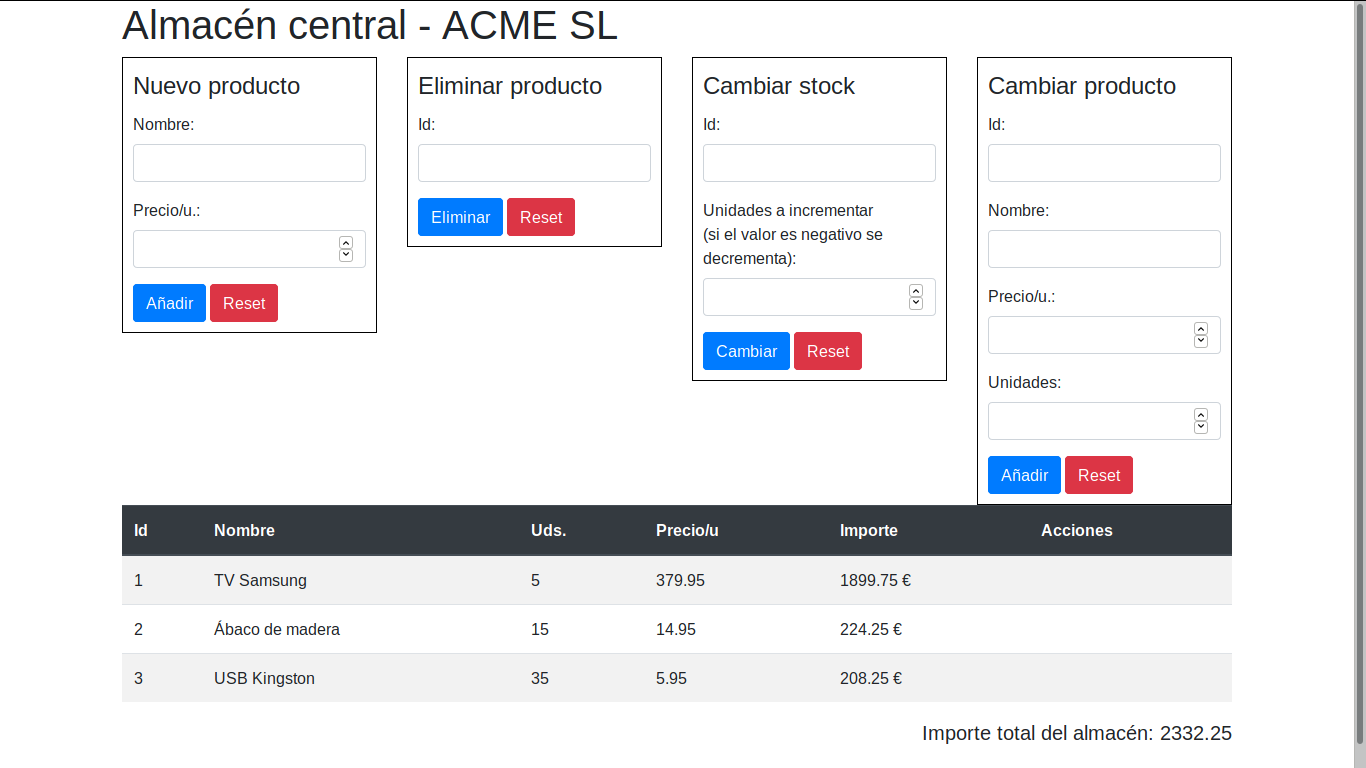
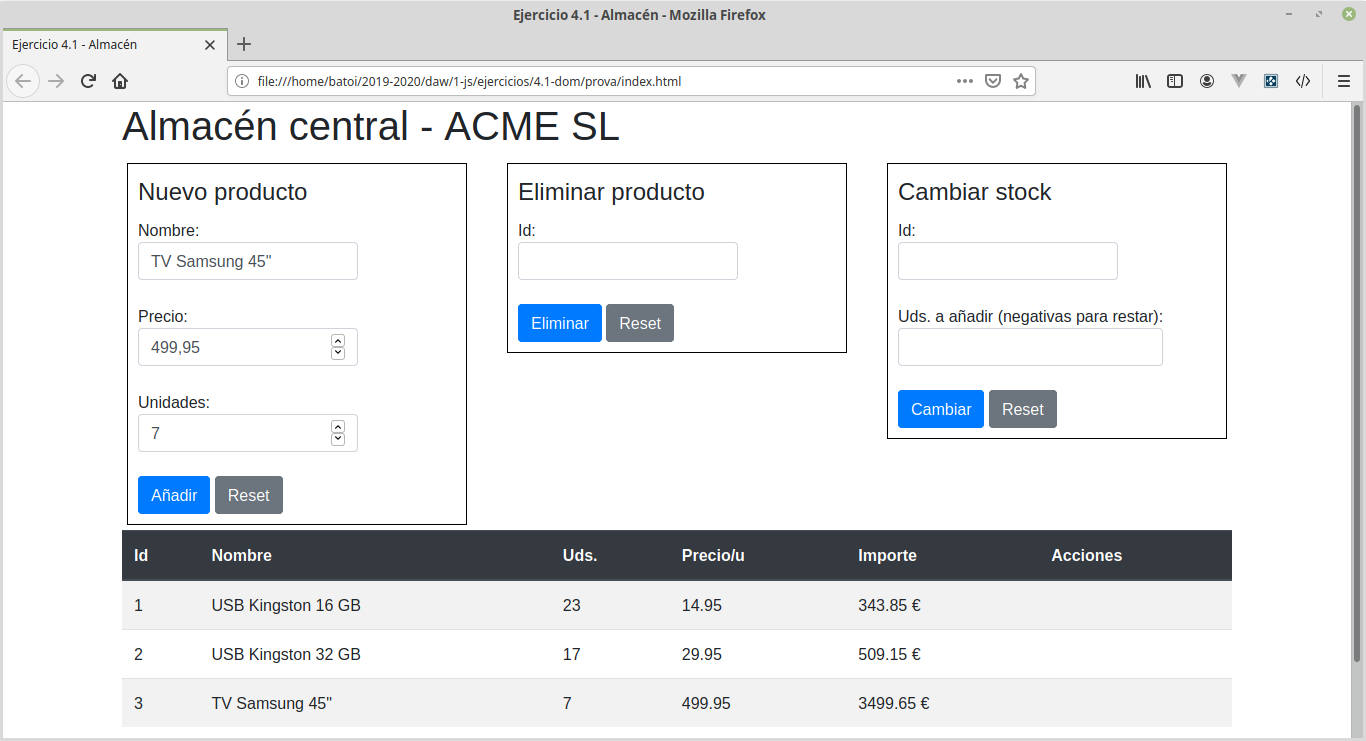
[MOD] JS-ejer 4-1

diff --git a/daw/dwc/01-js/ejercicios/4-1-tablaproductos.md b/daw/dwc/01-js/ejercicios/4-1-tablaproductos.md
@@ -1,18 +1,18 @@
 # Bloc 1: Javascript. Práctica 4.1 - DOM
-Siguiendo con la práctica de POO vamos a mostrar en una tabla los productos de nuestro almacén. Cada fila corresponderá a un producto y se mostrará su código, nombre, unidades, precio por unidad e importe. En el fichero index.html tenemos una tabla vacía con id almacen donde pintaremos ese almacén. Dicha tabla usa **_bootstrap_** para mejorar la presentación. Debajo de la misma mostraremos el importe total del almacén.
+Siguiendo con la práctica de 'Productos de un almacén' vamos a crear una página donde mostrar en una tabla los productos de nuestro almacén. Cada fila corresponderá a un producto y se mostrará su id, nombre, unidades, precio por unidad e importe. En el fichero index.html tenéis una tabla vacía con id _almacen_ donde pintaremos ese almacén. Dicha tabla usa **_bootstrap_** para mejorar la presentación. Debajo de la misma mostraremos el importe total del almacén.
 
-Ya tenemos creadas las clases por lo que la lógica de negocio de nuestra aplicación la tenemos ya hecha. Ahora nos falta crear funciones con las que interactuará el usuario y que se encargarán de modificar los datos usando las clases ya creadas y reflejar los cambios hechos en la página para que los vea el usuario. Necesitaremos funciones para:
-* Añadir productos al almacén: deberemos pasarle el nombre del nuevo producto y su precio por unidad
-* Eliminar productos del almacén: debemos pasarle la id del producto a eliminar. Deberá pedir confirmación (mostraremos al usuario la id del producto a eliminar y su nombre) y, si el producto tiene unidades, volverá a pedirla indicando las unidades que aún tenemos del mismo y que desaparecerán
-* Cambiar stock: recibe una id de producto y el nº de unidades (positivo o negativo) a modificar
+Ya tenemos creadas las clases por lo que la lógica de negocio de nuestra aplicación (el modelo) la tenemos ya hecha. Ahora nos falta crear funciones con las que interactuará el usuario y que se encargarán de modificar los datos usando las clases ya creadas y reflejar los cambios hechos en la página para que los vea el usuario. Necesitaremos funciones para:
+* Añadir productos al almacén: deberemos pasarle el nombre del nuevo producto, su precio por unidad y, opcionalmente, sus unidades (si no recibe unidades estas serán 0)
+* Eliminar productos del almacén: debemos pasarle la id del producto a eliminar. Deberá pedir confirmación (mostraremos al usuario la id del producto a eliminar y su nombre). Si el producto tiene unidades en stock, volverá a pedir una confirmación indicando las unidades que aún tenemos del mismo y diciendo que desaparecerán.
+* Cambiar stock: recibe una id de producto y el nº de unidades (positivo o negativo) a modificar y sumará esta cantidad al stock exitente del producto
 * Cambiar producto: recibe un objeto con la id del producto a modificar y las propiedades que deseamos modificar (las no incluidas permanecerán inalteradas)
 
-Para introducir estos datos crearemos unos formularios vacíos sobre la tabla que deberemos completar (sólo tenemos el título). Para mejorar su presentación usaremos también _bootstrap_ por lo que cada input del formulario tendrá la siguiente estructura básica (añadiremos estas 4 líneas de código al _index.html_ para cada input que queramos poner:
+Para introducir estos datos tenemos unos formularios sobre la tabla que deberemos completar (sólo tienen el título). Para mejorar su presentación usaremos también _bootstrap_ por lo que cada input del formulario tendrá la siguiente estructura básica (añadiremos estas 4 líneas de código al _index.html_ para cada input que queramos poner:
 ```html
 <div class="form-group">
-  <label for="new-name">
+  <label for="prod-name">
     <span>Nombre: </span>
-    <input type="text" class="form-control" id="new-name">
+    <input type="text" class="form-control" id="prod-name">
   </label>
 </div>
 ```
@@ -22,20 +22,83 @@ Respecto a los botones de cada formulario tendrán el siguiente aspecto:
 <button type="submit" class="btn btn-default btn-primary">Añadir</button>
 <button type="reset" class="btn btn-secondary">Reset</button>
 ```
+
 ![Almacén](./img/ejer4-1.png)
 
-ATENCIÓN: En la etiqueta de cada formulario hemos puesto un atributo, _onsubmit_, que hará que se ejecute la función indicada en dicho atributo cuando se envíe el formulario. Por tanto deberemos crear esa función en nuestro código, quien se encargará de obtener los datos del formulario, validarlos y llamar a las funciones correspondientes.
+ATENCIÓN: En la etiqueta de cada formulario hemos puesto un atributo, _onsubmit_, que hará que se ejecute automáticamente la función indicada en dicho atributo cuando se envíe el formulario. Por tanto deberemos crear esa función en nuestro código y hacer que se encargue de obtener los datos del formulario, validarlos y llamar a las funciones correspondientes (añadir, eliminar, ...).
 
-Podéis modificar lo que necesitéis del _index.html_. De hecho como mínimo tenemos que añadir los inputs de los formularios existentes.
+Podéis modificar lo que necesitéis del _index.html_. De hecho como mínimo tenemos que añadir los inputs de los formularios existentes y seguramente convendrá ponerle _id_ a algunos elementos.
 
 ## MVC
 Es importante no mezclar la lógica del negocio (el modelo) con la presentación (la vista). Las clases que tenemos creadas deben ocuparse de los datos pero NO de cómo los vamos a presentar en la pantalla. De eso se ocuparan otras funciones de manera que si decidimos que la información se vea de otra forma eso no debe afectar al modelo. 
 
-Lo ideal sería usar el patrón MVC (con o sin clases para el controlador y la vista, como prefiráis). Una posible implementación sería:
-- controlador, que contiene 2 tipos de funciones:
-  - las que se ejecutan cuando se envía cada formulario. Dichas funciones se ocupan de validar los valores de los formularios y si todo es correcto llamar a la función correspondiente del controlador
-  - funciones del controlador(las descritas al principio) que deberán:
-    - llamar al modelo (la clase Store) para modificar los datos en respuesta a la acción del cliente
-    - si todo ha ido bien llamar a la vista para que modifique la tabla en función de los cambios hechos (NO queremos que la vuelva a pintar toda, sólo que cambie el producto modificado)
-    - si ha habido algún problema que llame a la vista para mostrar el error al usuario
-- vista: tendrá funciones para pintar los datos iniciales (la tabla vacía) y pintar los nuevos productos y los productos modificados
+Por ello vamos a usar el patrón MVC (con o sin clases para el controlador y la vista, como prefiráis). La estructura que deberemos crear es:
+- controlador, cuyas funciones tienen que:
+  - validar los datos que se le pasan
+  - si son correctos, llamar al modelo (la clase Store) para modificar los datos en respuesta a la acción del cliente
+  - si todo ha ido bien llamar a la vista para que modifique la tabla de productos en función de los cambios hechos
+  - si ha habido algún problema se debe llamar a la vista para mostrar el error al usuario
+- vista: tendrá funciones para pintar los datos iniciales (la tabla vacía) y pintar los nuevos productos y los productos modificados. También habrá una función que muestre un mensaje al usuario, para evitar usar alerts.
+
+Además en el fichero principal de la aplicación deberemos crear funciones manejadoras de eventos que se ejecutarán automáticamente cuando se envía cada formulario. Dichas funciones se ocupan de enviar los datos del formulario a la función correspondiente del controlador. Recibirán como parámetro un objeto _event_ con información sobre el evento producido. La primera línea de cada función será `event.preventDefault()` para que no se recargue la página al enviar el formulario (en el tema de _Eventos_ veremos el por qué de todo esto). Tenéis hecho en el fichero **index.js** un ejemplo para el formulario _form-prod_. Debéis completar esa función y hacer otras para los otros 2 formularios.
+
+### Controller
+La clase controller tendrá como propiedades un almacén donde guardar los datos y una instancia de la clase _View_ a la que llamar para renderizarlos. Sus métodos serán:
+- **addProductToStore**: recibe de la función manejadora del formulario _form-prod_ un objeto con los datos del producto a añadir (_name_, _price_ y _units_) y, tras comprobar que son correctos, hace que se añada al almacén y se muestre en la tabla
+- **deleteProductFromStore**: recibe de la función manejadora del formulario _form-del-prod_ la id del producto a eliminar y hace que se borre del almacén y de la tabla
+- **changeProductStock**: recibe de la función manejadora del formulario _form-stock-prod_  la id del producto y las unidades a sumarle (número positivo o negativo) y se encarga de que se cambien en el almacén y se muestre en la tabla
+
+### View
+La clase _View_ se encarga de mostrar en la página la información que recibe. Los métodos que contendrá son:
+- **renderProduct**: recibe un objeto Product y lo añadirá al final de la tabla
+- **renderDelProduct**: recibe una id de un producto y borra de la tabla la fila de dicho producto
+- **renderChangeStock**: recibe un objeto Product y cambia las unidades en la tabla poniendo las que tiene ahora
+- **renderStoreImport**: recibe un número y lo muestra como importe total de la tabla
+
+Tenéis que tener en cuenta:
+- no podéis volver a renderizar toda la tabla, sólo hay que cambiar lo que nos dicen porque el renderizado es lo que más consumo de recursos hace y no queremos prejudicar el rendimiento de nuestra aplicación (imaginad una tabla con muchos productos...)
+- por tanto en ningún momento podemos cambiar el innerHTML de la tabla ni de su BODY. Sólo podemos añadir o elimnr TR o mdificar TD en el caso de renderStockChange
+- recordad que bajo la tabla hay un TOTAL del importe que siempre debe estar actualizado, para lo que hemos creado la función _renderStoreImport_
+
+Además tendrá un método llamado **renderErrorMessage** al que se le pasa un texto y añade dentro del DIV **messages** un nuevo DIV con el mensaje a mostrar al usuario, cuyo HTML será
+```html
+<div class="col-sm-12 alert alert-danger">
+    <span>Aquí pondremos el texto que nos han pasado</span>
+    <button type="button" class="close" aria-label="Close" onclick="this.parentElement.remove()">
+        <span aria-hidden="true">&times;</span>
+    </button>
+</div>
+```
+
+Como valor del atributo _onclick_ tenemos el código JS que borra este DIV. No es lo más correcto pero de momento lo haremos así.
+
+## Organizar el código
+Dentro de la carpeta **src/** tendremos los ficheros:
+- **index.js**: es el fichero principal de nuestra aplicación que importa la clase _Controller_ e instancia un nuevo controlador. Además contiene las funcioes manejadoras de eventos de los formularios
+- **controller/controller.class.js**: la clase _Controller_ con sus propiedades y métodos
+- **view/view.class.js**: la clase _View_ con sus métodos
+- **model/**: carpeta donde pondremos las clases Store y Product que tenemos en los ficheros **store.class.js** y **product.class.js** que ya tenemos hechas
+
+En el _index.html_ habría que enlazar los 5 ficheros en el orden correcto (product, store, view, controller y index) para que desde _Controller_ se pueda llamar a métodos de _Store_ y desde _store.js_ a métodos de _Product_, etc. Como esto ya empieza a ser incómodo vamos a hacer uso de _webpack_ para que se empaqueten todos nuestros ficheros en un único fichero que se llamará _./dist/main.js_ y sera el que enlazaremos en el _index.html_. Puedes consultar [cómo usar webpack](../12-tests.html) para hacerlo. 
+
+Lo que tienes que hacer es:
+1. Crear el proyecto (cuando te pregunte la librería para test le debes decir **jest**)
+```bash
+npm init
+```
+
+2. Instalar las dependencias (todas son de desarrollo)
+```bash
+npm i -D webpack webpack-cli jest
+```
+
+3. Cada vez que modifiques tu código debes ejecutar _webpack_ para que vuelva a generarse el fichero **dist/main.js** que es el que tenemos enlazado en _index.html_
+```bash
+npx webpack --mode=development
+```
+
+4. Y para pasar los tests de nuestro código ejecutamos
+```bash
+npm run test
+```
+
